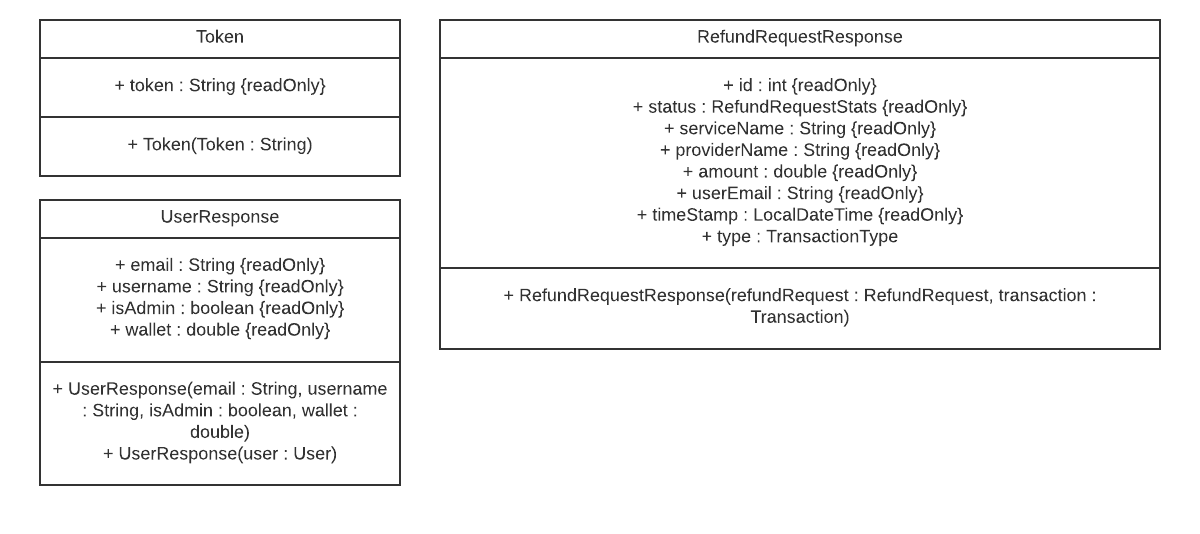
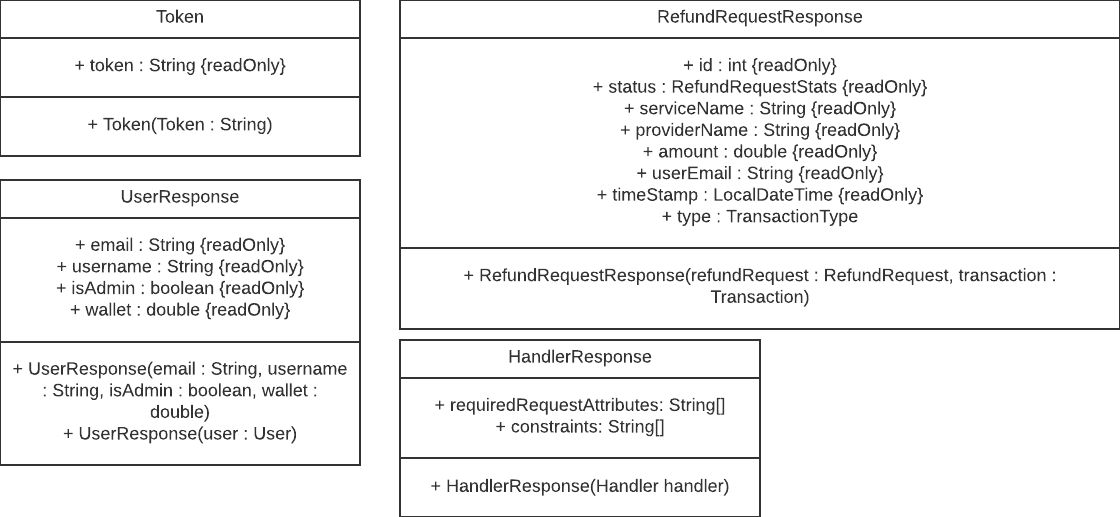
ServiceController getServiceProviderHandler

Changed region(s): [[0.0, 0.0, 1.0, 0.9284], [0.3438, 0.9903, 0.6875, 1.0], [0.375, 0.9284, 0.6562, 0.9594]]

diff --git a/src/main/java/payments/controllers/ServiceController.java b/src/main/java/payments/controllers/ServiceController.java
@@ -11,6 +11,9 @@ import org.springframework.web.bind.annotation.RestController;
 import org.springframework.web.server.ResponseStatusException;
 
 import datastore.Model;
+import handlers.Handler;
+import handlers.HandlerFactory;
+import payments.controllers.response.HandlerResponse;
 import payments.entities.Discount;
 import payments.entities.FormElement;
 import payments.entities.FormElementChoice;
@@ -76,6 +79,16 @@ public class ServiceController {
             throw new ResponseStatusException(HttpStatus.NOT_FOUND,
                     "Could not find a provider with such a name providing such a service");
         return provider;
+    }
+
+    @GetMapping("/services/{serviceName}/providers/{providerName}/handler")
+    @ResponseBody
+    public HandlerResponse getServiceProviderHandler(
+            @PathVariable("serviceName") String serviceName, @PathVariable("providerName") String providerName) {
+        Provider provider = getServiceProvider(serviceName, providerName); // Fail if doesn't exist
+        HandlerFactory handlerFactory = new HandlerFactory();
+        Handler handler = handlerFactory.getHandler(provider.handlerName);
+        return new HandlerResponse(handler);
     }
 
     @GetMapping("/services/{serviceName}/providers/{providerName}/form-elements")

diff --git a/src/main/java/payments/controllers/response/HandlerResponse.java b/src/main/java/payments/controllers/response/HandlerResponse.java
@@ -1,0 +1,13 @@
+package payments.controllers.response;
+
+import handlers.Handler;
+
+public class HandlerResponse {
+    public final String[] requiredRequestAttributes;
+    public final String constraints;
+
+    public HandlerResponse(Handler handler) {
+        this.requiredRequestAttributes = handler.getRequestKeys();
+        this.constraints = handler.getConstraints();
+    }
+}
